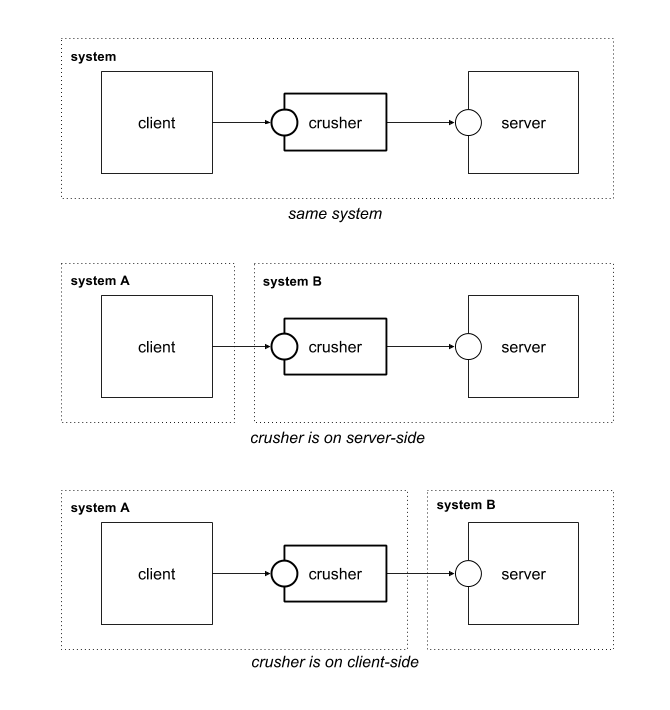
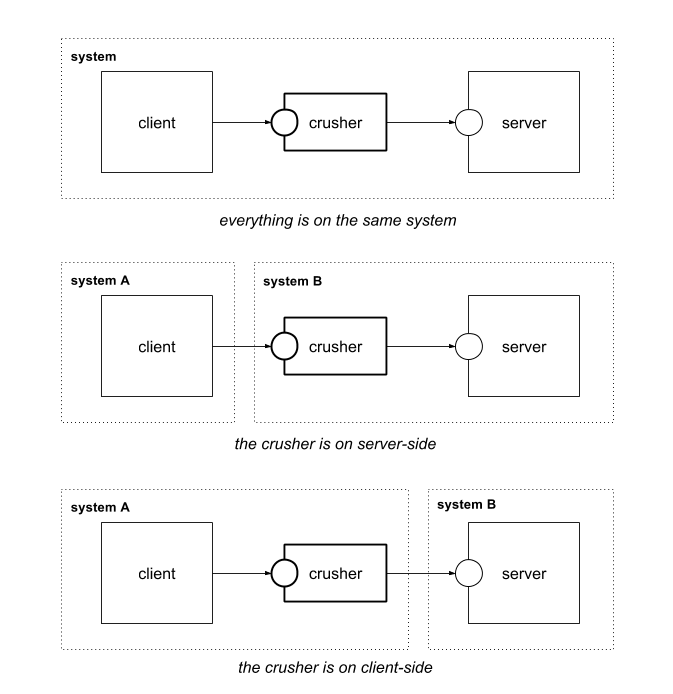
docs

diff --git a/docs/index.html b/docs/index.html
@@ -18,7 +18,7 @@
     <script src="systemjs.config.js"></script>
 </head>
 <body>
-<a href="https://github.com/NetCrusherOrg/netcrusher-java"><img class="forkme" src="https://camo.githubusercontent.com/652c5b9acfaddf3a9c326fa6bde407b87f7be0f4/68747470733a2f2f73332e616d617a6f6e6177732e636f6d2f6769746875622f726962626f6e732f666f726b6d655f72696768745f6f72616e67655f6666373630302e706e67" alt="Fork me on GitHub" data-canonical-src="https://s3.amazonaws.com/github/ribbons/forkme_right_orange_ff7600.png"></a>
+<a href="https://github.com/NetCrusherOrg/netcrusher-java"><img class="forkme" alt="Fork me on GitHub" src="https://s3.amazonaws.com/github/ribbons/forkme_right_orange_ff7600.png"></a>
 <nav class="navbar navbar-inverse navbar-fixed-top">
     <div class="container">
         <div class="navbar-header">
@@ -42,10 +42,31 @@
 
 <div class="container">
 <div class="row">
-<div class="col-lg-1"></div>
-<div class="col-lg-10">
+<div class="col-lg-2 col-sm-1"></div>
+<div class="col-lg-8 col-sm-10">
+
+<h1>NetCrusher</h1>
+
+<p>Client-server without a crusher</p>
+
+<div>
+    <img src="i/ill/nocrusher.png" class="img-responsive center-block"/>
+</div>
+
+<p>Client-server with the crusher in the middle</p>
+
+<div>
+    <img src="i/ill/systems.png" class="img-responsive center-block" alt="the place of crusher"/>
+</div>
+
 <h1>TcpCrusher</h1>
-<p>hewthet</p>
+
+<p>TcpCrusher works as a managed TCP proxy</p>
+
+<div>
+    <img src="i/ill/tcpcrusher.png" class="img-responsive center-block" alt="TCP crusher schematic"/>
+</div>
+
 <pre>
 <code class="lang-java">
     NioReactor reactor = new NioReactor();
@@ -55,8 +76,10 @@
         .withConnectAddress("google.com", 80)
         .buildAndOpen();
 
-    // emulate reconnect
-    crusher.crush();
+    // ... do something
+
+    // close all connections and open listening socket
+    crusher.reopen();
 
     // freeze
     crusher.freeze();
@@ -70,27 +93,96 @@
 </code>
 </pre>
 
-<h1>NetCrusher</h1>
-
-<div>
-    <img src="i/ill/systems.png" />
-</div>
-
-<h1>TcpCrusher</h1>
-
-<div>
-    <img src="i/ill/tcpcrusher.png" />
-</div>
 
 <h1>DatagramCrusher</h1>
 
+<p>DatagramCrusher works as a managed datagram (UDP) proxy</p>
+
 <div>
-    <img src="i/ill/datagramcrusher.png" />
+    <img src="i/ill/datagramcrusher.png" class="img-responsive center-block" alt="Datagram crusher schematic"/>
 </div>
 
+<pre>
+<code class="lang-java">
+    NioReactor reactor = new NioReactor();
+    DatagramCrusher crusher = DatagramCrusherBuilder.builder()
+        .withReactor(reactor)
+        .withBindAddress("localhost", 10080)
+        .withConnectAddress("google.com", 80)
+        .buildAndOpen();
+
+    // ... do something
+
+    // close all connections and open listening socket
+    crusher.reopen();
+
+    // freeze
+    crusher.freeze();
+
+    // unfreeze
+    crusher.unfreeze();
+
+    // close
+    crusher.close();
+    reactor.close();
+</code>
+</pre>
+
+<h1>Command line wrapper</h1>
+
+<p>Library wrapper allows to use crusher for manual QA</p>
+
+<h2>run-tcp-crusher</h2>
+
+<pre>
+<code>
+    $ <b>./run-tcp-crusher.sh 127.0.0.1:12345 google.com:80</b>
+    [21:22:42.135] INFO  TcpCrusher &lt;/127.0.0.1:12345>-&lt;google.com/64.233.162.100:80> is open
+    # Version: 0.8
+    # Print `HELP` for the list of the commands
+    # enter the command in the next line
+    <b>REOPEN</b>
+    [21:22:47.239] INFO  TcpCrusher &lt;/127.0.0.1:12345>-&lt;google.com/64.233.162.100:80> is closed
+    [21:22:47.240] INFO  TcpCrusher &lt;/127.0.0.1:12345>-&lt;google.com/64.233.162.100:80> is open
+    [21:22:47.241] INFO  Crusher is reopen
+</code>
+</pre>
+
+<h2>run-datagram-crusher</h2>
+
+<pre>
+<code>
+    $ <b>./run-datagram-crusher.sh 127.0.0.1:1245 time-nw.nist.gov:37</b>
+    [21:25:13.258] INFO  DatagramCrusher &lt;/127.0.0.1:1245>-&lt;time-nw.nist.gov/131.107.13.100:37> is started
+    # Version: 0.8
+    # Print `HELP` for the list of the commands
+    # enter the command in the next line
+    <b>REOPEN</b>
+    [21:25:15.290] INFO  DatagramCrusher &lt;/127.0.0.1:1245>-&lt;time-nw.nist.gov/131.107.13.100:37> is closed
+    [21:25:15.290] INFO  DatagramCrusher &lt;/127.0.0.1:1245>-&lt;time-nw.nist.gov/131.107.13.100:37> is started
+    [21:25:15.291] INFO  Crusher is reopen
+    # enter the command in the next line
+    [21:28:44.518] INFO  Client for &lt;/127.0.0.1:36166> is created
+    <b>STATUS</b>
+    [21:28:50.447] INFO  DatagramCrusher crusher for &lt;/127.0.0.1:1245>-&lt;time-nw.nist.gov/131.107.13.100:37>
+    [21:28:50.448] INFO  Crusher is open
+    [21:28:50.448] INFO  Total number of registered clients: 1
+    [21:28:50.461] INFO  Total number of active clients: 1
+    [21:28:50.461] INFO  Client statistics for &lt;/127.0.0.1:36166>
+    [21:28:50.461] INFO  	total read bytes: count=4, elapsed=5949 ms, rate=0.672382 evt/sec
+    [21:28:50.462] INFO  	total sent bytes: count=2, elapsed=5949 ms, rate=0.336191 evt/sec
+    [21:28:50.462] INFO  	total read packets: count=1, elapsed=5949 ms, rate=0.168095 evt/sec
+    [21:28:50.462] INFO  	total sent packets: count=1, elapsed=5949 ms, rate=0.168095 evt/sec
+    [21:28:50.463] INFO  Inner statistics
+    [21:28:50.463] INFO  	total read bytes: count=2, elapsed=215173 ms, rate=0.009295 evt/sec
+    [21:28:50.463] INFO  	total sent bytes: count=4, elapsed=215173 ms, rate=0.018590 evt/sec
+    [21:28:50.463] INFO  	total read packets: count=1, elapsed=215173 ms, rate=0.004647 evt/sec
+    [21:28:50.463] INFO  	total sent packets: count=1, elapsed=215173 ms, rate=0.004647 evt/sec
+</code>
+</pre>
 
 </div>
-<div class="col-lg-1"></div>
+<div class="col-lg-2 col-sm-1"></div>
 </div>
 </div>
 

diff --git a/README.md b/README.md
@@ -81,7 +81,6 @@ CLOSE
 OPEN
 [20:19:21.655] INFO  TcpCrusher </127.0.0.1:12345>-<google.com/64.233.161.101:80> is open
 [20:19:21.655] INFO  Crusher is open
-# enter the command in the next line
 ```
 
 # Maven
@@ -102,4 +101,4 @@ Apache License Version 2.0, http://www.apache.org/licenses/LICENSE-2.0.html
 
 * [Jepsen](http://jepsen.io) - Distributed Systems Safety Analysis
 * [Java-NIO-TCP-Proxy](https://github.com/terma/java-nio-tcp-proxy/wiki) - Simple TCP proxy
-* [netem](https://wiki.linuxfoundation.org/networking/netem) - Linux kernel module for testing protocols
+* [netem](https://wiki.linuxfoundation.org/networking/netem) - Linux kernel module allows to distort network facilities
